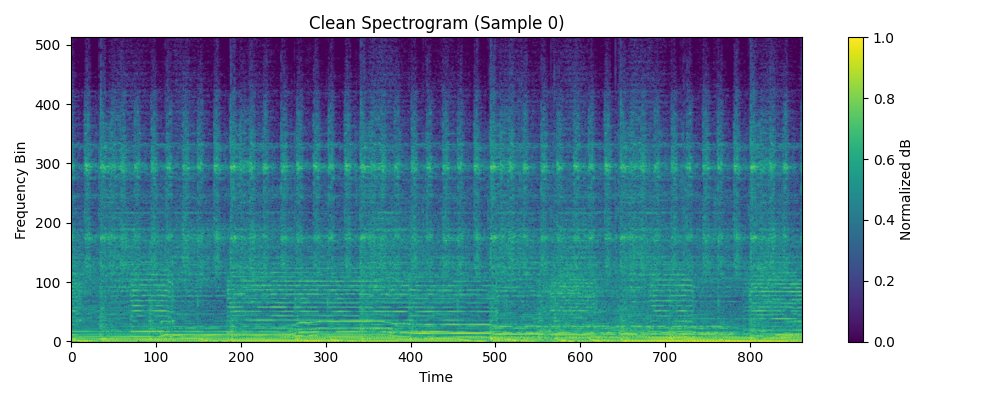
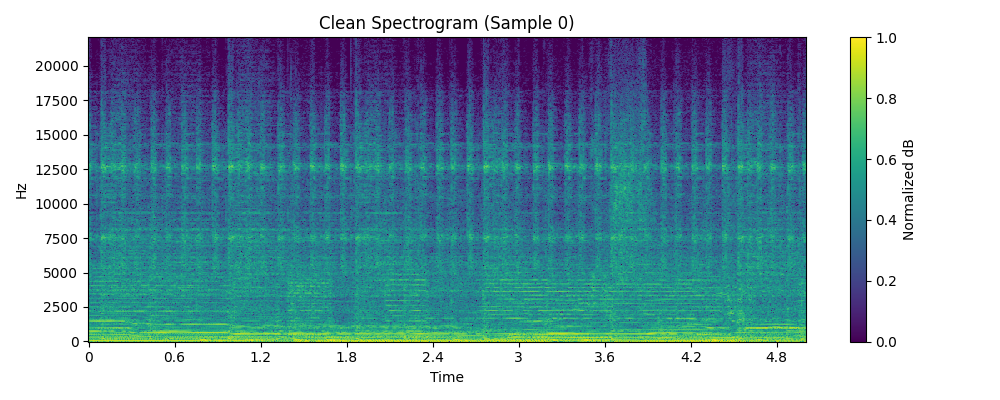
display time in seconds

Changed region(s): [[0.0, 0.03, 0.806, 0.96], [0.837, 0.06, 0.93, 0.87]]

diff --git a/25-Spring/CS4320 Machine Learning/audio-decompress/open_data.py b/25-Spring/CS4320 Machine Learning/audio-decompress/open_data.py
@@ -60,7 +60,8 @@ def get_streaming_dataset(degraded_dir, clean_dir, batch_size=8, shuffle_buffer=
 # Test the generator with a batch and save PNGs of the first sample
 if __name__ == "__main__":
     train_ds = get_streaming_dataset("data/train/cut/degraded", "data/train/cut/clean")
-    for X_batch, y_batch in train_ds.take(1):
+
+    for i, (X_batch, y_batch) in enumerate(train_ds.take(1)):
         print("X_batch shape:", X_batch.shape)
         print("y_batch shape:", y_batch.shape)
 
@@ -68,24 +69,27 @@ if __name__ == "__main__":
         clean = y_batch[0].numpy().squeeze()
 
         import matplotlib.pyplot as plt
+        import librosa.display
 
-        # Save degraded spectrogram
+        # Calculate time axis in seconds
+        num_frames = degraded.shape[1]
+        times = librosa.frames_to_time(np.arange(num_frames), sr=SAMPLE_RATE, hop_length=HOP_LENGTH)
+
+        # Degraded Spectrogram
         plt.figure(figsize=(10, 4))
-        plt.imshow(degraded, aspect='auto', origin='lower', cmap='viridis')
+        librosa.display.specshow(degraded, sr=SAMPLE_RATE, hop_length=HOP_LENGTH,
+                                 x_axis='time', y_axis='linear', cmap='viridis')
         plt.title("Degraded Spectrogram (Sample 0)")
-        plt.xlabel("Time")
-        plt.ylabel("Frequency Bin")
         plt.colorbar(label="Normalized dB")
         plt.tight_layout()
         plt.savefig("degraded_sample_0.png")
         plt.close()
 
-        # Save clean spectrogram
+        # Clean Spectrogram
         plt.figure(figsize=(10, 4))
-        plt.imshow(clean, aspect='auto', origin='lower', cmap='viridis')
+        librosa.display.specshow(clean, sr=SAMPLE_RATE, hop_length=HOP_LENGTH,
+                                 x_axis='time', y_axis='linear', cmap='viridis')
         plt.title("Clean Spectrogram (Sample 0)")
-        plt.xlabel("Time")
-        plt.ylabel("Frequency Bin")
         plt.colorbar(label="Normalized dB")
         plt.tight_layout()
         plt.savefig("clean_sample_0.png")
